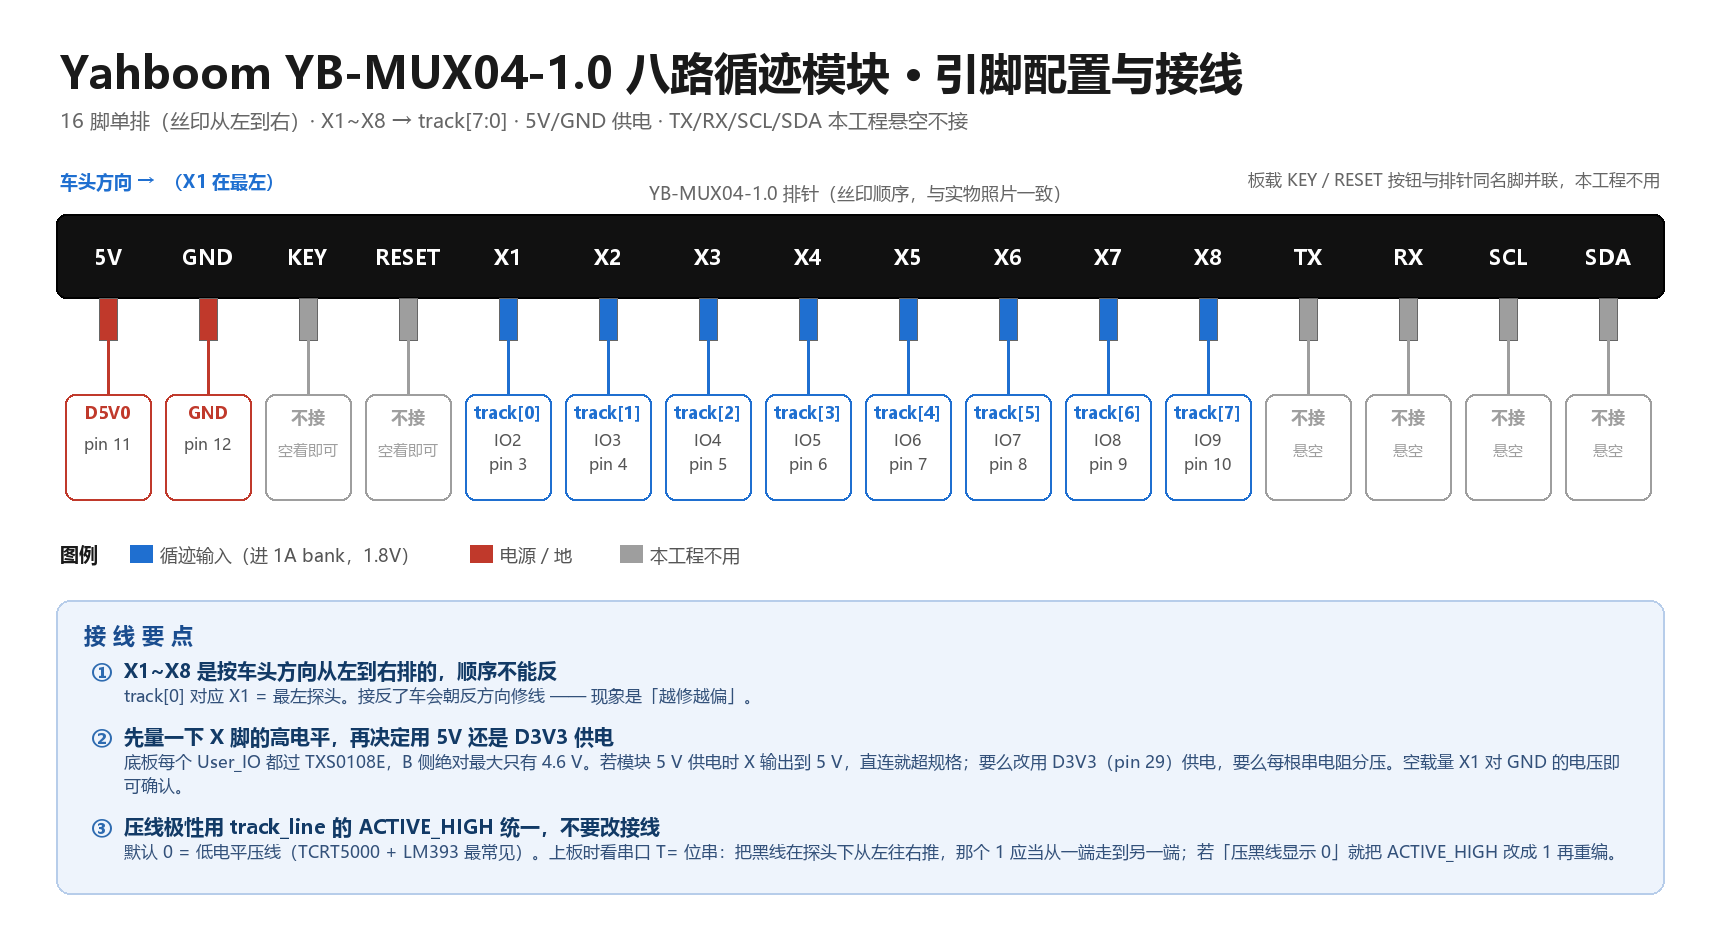
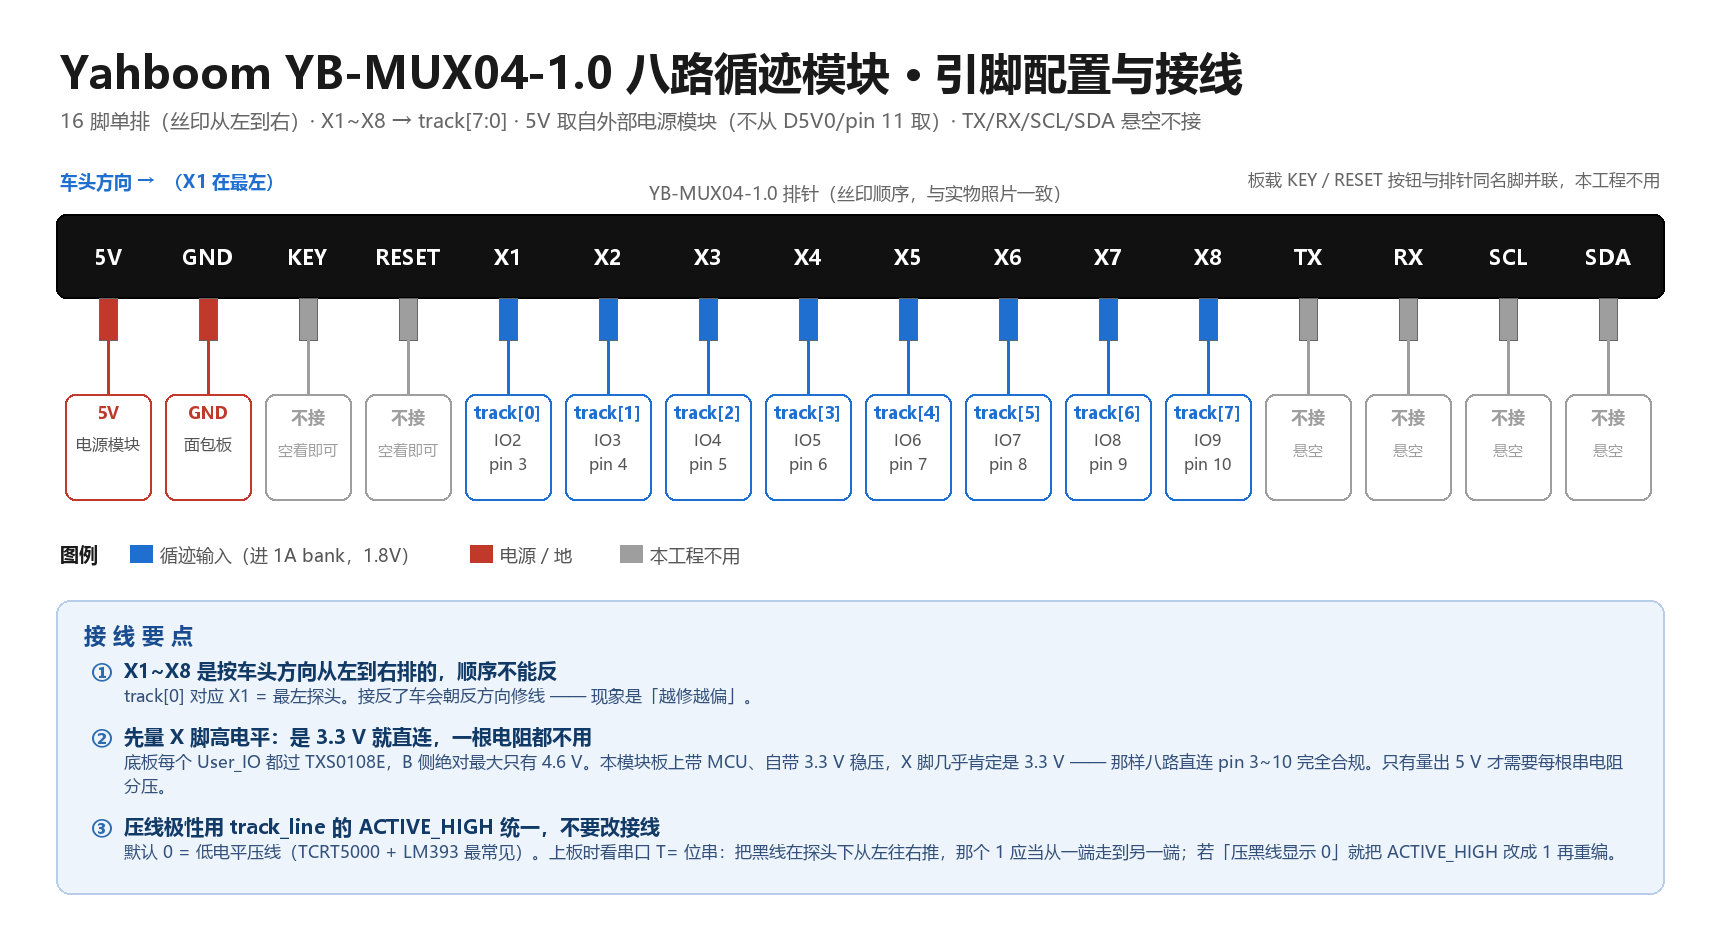
文档：订正 3.3V 直连后遗留的分压表述，循迹 5V 改标外部电源模块

diff --git a/tools/gen_wiring_diagrams.py b/tools/gen_wiring_diagrams.py
@@ -87,9 +87,9 @@ PANEL_X0, PANEL_X1 = MARGIN, W - MARGIN
 MUX_ITEMS = [
     ("①", "X1~X8 是按车头方向从左到右排的，顺序不能反",
      "track[0] 对应 X1 = 最左探头。接反了车会朝反方向修线 —— 现象是「越修越偏」。"),
-    ("②", "先量一下 X 脚的高电平，再决定用 5V 还是 D3V3 供电",
-     "底板每个 User_IO 都过 TXS0108E，B 侧绝对最大只有 4.6 V。若模块 5 V 供电时 X 输出到 5 V，"
-     "直连就超规格；要么改用 D3V3（pin 29）供电，要么每根串电阻分压。空载量 X1 对 GND 的电压即可确认。"),
+    ("②", "先量 X 脚高电平：是 3.3 V 就直连，一根电阻都不用",
+     "底板每个 User_IO 都过 TXS0108E，B 侧绝对最大只有 4.6 V。本模块板上带 MCU、自带 3.3 V 稳压，"
+     "X 脚几乎肯定是 3.3 V —— 那样八路直连 pin 3~10 完全合规。只有量出 5 V 才需要每根串电阻分压。"),
     ("③", "压线极性用 track_line 的 ACTIVE_HIGH 统一，不要改接线",
      "默认 0 = 低电平压线（TCRT5000 + LM393 最常见）。上板时看串口 T= 位串：把黑线在探头下从左往右推，"
      "那个 1 应当从一端走到另一端；若「压黑线显示 0」就把 ACTIVE_HIGH 改成 1 再重编。"),
@@ -108,7 +108,7 @@ d = ImageDraw.Draw(img)
 d.text((MARGIN + 4, 42), "Yahboom YB-MUX04-1.0 八路循迹模块 · 引脚配置与接线",
        font=F(44, True), fill=C_TITLE)
 d.text((MARGIN + 4, 106),
-       "16 脚单排（丝印从左到右）· X1~X8 → track[7:0] · 5V/GND 供电 · TX/RX/SCL/SDA 本工程悬空不接",
+       "16 脚单排（丝印从左到右）· X1~X8 → track[7:0] · 5V 取自外部电源模块（不从 D5V0/pin 11 取）· TX/RX/SCL/SDA 悬空不接",
        font=F(20), fill=C_SUB)
 
 BAR_Y0, BAR_Y1 = 214, 298
@@ -131,8 +131,8 @@ for i in range(8):
     net[4 + i] = "track[%d]" % i
     io[4 + i] = "IO%d" % (2 + i)
     pin[4 + i] = "pin %d" % (3 + i)
-net[0], pin[0] = "D5V0", "pin 11"
-net[1], pin[1] = "GND", "pin 12"
+net[0], pin[0] = "5V", "电源模块"
+net[1], pin[1] = "GND", "面包板"
 
 d.rounded_rectangle((MARGIN, BAR_Y0, W - MARGIN, BAR_Y1), radius=10,
                     fill="#111111", outline="#000000", width=2)

diff --git a/PROJECT_PLAN.md b/PROJECT_PLAN.md
@@ -100,7 +100,7 @@ FpgaCar/
 | clk | GPIOL_11 | TL corner / 3.3V | 24MHz 晶振，conn_type=pll_clkin（加 PLL 后告警消失） |
 | rst_n | GPIOT_P_11 (User_IO35) | 2B / 1.8V | 上拉 |
 | track[0..7] | GPIOL_N_06/P_06/N_08/P_08/N_05/P_05/N_04/P_04 (User_IO2–9) | 1A / 1.8V | YB-MUX04 八路 |
-| hc_trig / hc_echo | GPIOL_N_12 / P_12 (User_IO10/11) | 1B / 1.8V | HC-SR04。**Echo 5V 必须分压：1kΩ 串 + 2kΩ 下地 → 3.33V**（TXS0108E 的 B 侧绝对最大仅 4.6V，直连超规格）。详见 §3.21 与 [docs/模块接线说明.md](docs/模块接线说明.md) §3 |
+| hc_trig / hc_echo | GPIOL_N_12 / P_12 (User_IO10/11) | 1B / 1.8V | HC-SR04。**2026-11-18 起 Vcc 改 3.3 V 供电，Echo 随之为 3.3 V，pin 14 直连、不分压**（若改回 5 V 供电则必须 1kΩ 串 + 2kΩ 下地 → 3.33 V，TXS0108E 的 B 侧绝对最大仅 4.6 V）。详见 §3.21、§3.23 与 [docs/模块接线说明.md](docs/模块接线说明.md) §3 |
 | ir_l / ir_r | GPIOL_N_15 / P_15 (User_IO26/27) | 1B / 1.8V | E18-D80NK 红外光电开关 ×2（避障冗余；NPN 低有效=检测到）。**接法修正（联网查证）**：开集输出空闲时内部 10K 上拉为 **5V 高电平，不可直连 1.8V bank**——弃内部上拉，外部 10K 上拉到 D3V3 + 1K/1.2K 分压至约 1.8V。**2026-11-17：现阶段不用，`USE_IR = 1'b0` 不参与障碍判定**，接线与 RTL 保留，见 §3.9 A2 |
 | i2c_scl / i2c_sda | GPIOL_N_13 / P_13 (User_IO12/13) | 1B / 1.8V | scl=output、sda=inout |
 | enc_la/lb/ra/rb | GPIOL_N_10/P_10/N_11/P_11 (User_IO14–17) | 1B / 1.8V | 光电编码器 |
@@ -1218,8 +1218,8 @@ WARNING: Mapping into logic memory block 'u_oled/fb' (8192 bits) because read po
 
 判读速查：
 
-- **距离一直 `---`** → 无回波：模块没供电 / Trig 没接 / Echo 分压断 / 目标太远或太吸音。
-- **距离恒 `006cm` 之类偏小值** → 分压网络边沿失真把脉宽截短，或早前 5V 反接伤了模块。
+- **距离一直 `---`** → 无回波：模块没供电 / Trig 没接 / Echo 线松 / 目标太远或太吸音（3.3 V 供电下超 2 m 开始丢）。
+- **距离恒 `006cm` 之类偏小值** → Echo 线接触不良把脉宽截短、模块被 5 V 反接过、或目标太近落在盲区（<2 cm）。
 - **循迹条八格全实心** → 电位器拧到「全判黑」端，或车停深色地面；抬离桌面做对照。
 - **循迹条八格全空** → 模块没供电，或 ACTIVE_HIGH 极性与实物不符。
 - **状态号恒 0（IDLE）** → 还在上电 2 s 内，或 `rst_n` 没释放。
@@ -1876,25 +1876,27 @@ TT 电机额定多为 **3–6 V**，而 VM 是 7.4 V。50% 占空比平均 3.7 V
 
 ## 3.21 HC-SR04 接线定稿 + 编码器暂缓 + 剩余待买清单（2026-11-16）
 
-### HC-SR04：分压取值定稿
+### HC-SR04：3.3 V 直连定稿（2026-11-18 修订）
 
 实物照片已确认 4 脚自上而下是 `Vcc / Trig / Echo / Gnd`。逐脚对应与配图见
 [docs/模块接线说明.md](docs/模块接线说明.md) §3 与 [docs/HC-SR04接线图.png](docs/HC-SR04接线图.png)。
 
 | 脚 | 接往 | 关键点 |
 |---|---|---|
-| `Vcc` | **5 V**（车载 DC-DC 那一路） | 手册要求 5 V ±10%；接 D3V3 时量程掉到 1 m 以内 |
+| `Vcc` | **3.3 V**（外部电源模块的 3.3 V 输出） | 2026-11-18 实测：3.3 V 下 2.2 m 仍稳定回波，旧「量程掉到 1 m」结论作废 |
 | `Trig` | `hc_trig` = User_IO10 / G4 / pin 13 | 3.3 V 直驱够用，脉宽 15 µs（`TRIG_US`） |
-| `Echo` | **1 kΩ 串 + 2 kΩ 下地** → `hc_echo` = User_IO11 / G3 / pin 14 | 5 V × 2k/(1k+2k) = **3.33 V**；TXS0108E B 侧绝对最大 4.6 V，直连超规格 |
-| `Gnd` | GND · pin 12 / 30 | 与 Ti60 共地，功率地与信号地单点相接 |
+| `Echo` | **直连** → `hc_echo` = User_IO11 / G3 / pin 14 | 高电平 = `Vcc`，3.3 V 供电时即 3.3 V，直连合法；**改回 5 V 供电才需 1 kΩ 串 + 2 kΩ 下地**（5 V × 2k/(1k+2k) = 3.33 V，TXS0108E B 侧绝对最大 4.6 V） |
+| `Gnd` | **面包板 GND**，两根线回 Ti60 `pin 12` / `pin 30` | 功率地与信号地单点相接；面包板上下电源轨要桥接 |
 
-此前文档只写了「必须两个电阻分压」，没给具体阻值 —— 现在定死 `1 kΩ + 2 kΩ`：
-手上只有 2.2 kΩ 时输出 3.44 V 仍安全；**不要 1 kΩ+1 kΩ**（2.5 V 余量太小），
-**也不要 10 kΩ 级**（TXS0108E 靠边沿加速，驱动太弱会拖慢上升沿）。
-分压电阻放在**排针侧**：模块到电阻之间走 5 V，电阻到排针走 3.3 V，放反了会把 5 V 灌进电平转换器。
+现在**不需要任何分压电阻**。理由：Echo 由模块板上 MCU 在 `Vcc` 轨上推挽输出，`Vcc` 给 3.3 V，
+Echo 顶多 3.3 V，`pin 14` 直连不超 TXS0108E 的 4.6 V 绝对最大值。
 
-上板判据：串口 `D=` 随手远近变化即通；一直 `D=---cm` 按 ① 模块 Vcc ≥4.6 V → ② Trig 有 15 µs 脉冲
-→ ③ 分压节点 3.0–3.4 V → ④ 并 100 nF 的顺序查（详见模块接线说明 §3.3）。
+若将来改回 5 V 供电，分压取值仍是 `1 kΩ + 2 kΩ`：手上只有 2.2 kΩ 时输出 3.44 V 仍安全；
+**不要 1 kΩ+1 kΩ**（2.5 V 余量太小），**也不要 10 kΩ 级**（TXS0108E 靠边沿加速，驱动太弱会拖慢上升沿）。
+分压电阻必须放在**排针侧**：模块到电阻之间走 5 V，电阻到排针走 3.3 V，放反了等于把 5 V 灌进电平转换器。
+
+上板判据：串口 `D=` 随手远近变化即通；一直 `D=---cm` 按 ① 模块 Vcc 3.2–3.4 V → ② Trig 有 15 µs 脉冲
+→ ③ Echo 对 GND ≤3.4 V → ④ 并 100 nF 的顺序查（详见模块接线说明 §3.3）。
 
 ### 编码器：本轮不买，等实测再定
 
@@ -1921,7 +1923,7 @@ TT 电机额定多为 **3–6 V**，而 VM 是 7.4 V。50% 占空比平均 3.7 V
 | **必配** | DC-DC 降压 5 V / ≥3 A | 1 | 传感器 + K230 + FPGA 板 | 与电机功率地单点共地 |
 | **保留·暂不买** | E18-D80NK 红外 ×2 | 2 | 不卡任何一步 | User_IO26/27；开集空闲 5 V，须外部 10 kΩ 上拉 D3V3 + 1 kΩ/1.2 kΩ 分压到约 1.8 V（注意与超声的 1k/2k 不同）。**2026-11-17：现阶段不用，`USE_IR = 1'b0`；以后不说启用就不接** |
 | **暂缓** | 光电编码器 ×2 | 2 | 里程闭环（不是跑通的前置） | 本轮不买，见上 |
-| **辅料** | 1 kΩ / 2 kΩ / 10 kΩ / 1.2 kΩ 电阻 | 各 10 | 超声分压、红外上拉分压 | 1/4 W 金属膜，1% 更稳 |
+| **辅料** | 10 kΩ / 1 kΩ / 1.2 kΩ 电阻 | 各 10 | E18-D80NK 上拉与分压（红外暂不启用，可顺手买） | 1/4 W 金属膜，1% 更稳。**HC-SR04 已改 3.3 V 直连，2 kΩ 不再是必需件** |
 | **辅料** | 杜邦线、2.54 排针、热缩管、XT30/XT60 接头 | 若干 | 整车接线 | 杜邦线建议公母各一包 |
 | **辅料** | 保险丝座 + 5 A 保险丝、船型开关 | 各 1 | 电池安全 | 2S 锂电短路电流很大，**建议加**（不是硬性） |
 | 可选 | 广角镜头、VL53L1X | — | 视野/近距补充 | 不影响主线 |
@@ -2144,7 +2146,7 @@ tools\flash.bat       # 固化进 SPI Flash（三步：bridge → 写入 → 回
 `sign_detect.v` 不必再做；`dvp_capture.v` / `color_detect.v` 保留，定位降为 OV5640 后视倒车（看库位线）。
 
 **省不掉的硬边界**（别试图在片内实现）：传感器本体（红外收发管、CMOS+镜头、超声波换能器及模拟前端）、
-H 桥 MOSFET / 电机 / 电池 DC-DC、5 V→3.3 V 分压（HC-SR04 Echo、E18-D80NK）、上拉/去耦/晶振、
+H 桥 MOSFET / 电机 / 电池 DC-DC、5 V→3.3 V 分压（E18-D80NK；HC-SR04 已改 3.3 V 供电不再需要）、上拉/去耦/晶振、
 屏体本身（SSD1306 在屏内）。**Ti60 没有片内 ADC**，所以模拟输出传感器（如 GP2Y0A21）不要用。
 
 **合规提醒**：编码器必须**光电式**（细则 3.2.2 禁非光电方式导航识别）；严禁任何无线/遥控模块
@@ -2165,7 +2167,7 @@ H 桥 MOSFET / 电机 / 电池 DC-DC、5 V→3.3 V 分压（HC-SR04 Echo、E18-D
 - **暂缓（2026-11-16 决定）**：光电编码器 ×2 —— **本轮不采购，等无编码器版本实测后再决定要不要买**。
   理由与降级调试路径见 §3.21；RTL（`encoder_dec.v` / `speed_meter.v`）与 User_IO14–17 的管脚锁定都保留，
   将来装上直接可用。买的话必须**光电式**（3.2.2 禁磁/霍尔）。
-- **辅料**：1kΩ / 2kΩ / 10kΩ / 1.2kΩ 电阻各 10（HC-SR04 Echo 分压、E18-D80NK 上拉分压）、
+- **辅料**：10kΩ / 1kΩ / 1.2kΩ 电阻各 10（E18-D80NK 上拉分压；**2kΩ 只是「若把 HC-SR04 改回 5 V」的备用件**）、
   杜邦线公母各一包、2.54 排针、热缩管、XT30/XT60 电源接头；**建议**加 5 A 保险丝座 + 船型开关。
 - 可选：广角镜头（一个摄像头兼顾前方标识牌与侧方 25cm 色块）、VL53L1X（复用 I2C）。
 - 接口 Excel 中的两张示意图（框图/引脚图）按用户要求已删除，引脚信息以 §3.5 表格与 xlsx 总表为准。

diff --git a/docs/模块接线说明.md b/docs/模块接线说明.md
@@ -103,7 +103,7 @@ TT 电机额定多为 **3–6 V**，而 VM 是 7.4 V。50 % 占空比平均 3.7 
 | # | 丝印 | 本工程接到 | 针号 | User_IO / BGA |
 |---:|---|---|---|---|
 | 1 | `5V` | **外部电源模块 5 V**（★ 不从 `D5V0` / pin 11 取） | — | — |
-| 2 | `GND` | `GND` | pin 12 / 30 | — |
+| 2 | `GND` | **面包板 GND**（与 Ti60 的 `pin 12` / `pin 30` 共地） | — | — |
 | 3 | `KEY` | **不接** | — | 板载按钮，与排针同名脚并联 |
 | 4 | `RESET` | **不接** | — | 同上 |
 | 5 | `X1` | `track[0]` | pin 3 | User_IO2 / K2 GPIOL_N_06 |
@@ -125,7 +125,7 @@ TT 电机额定多为 **3–6 V**，而 VM 是 7.4 V。50 % 占空比平均 3.7 
 
 **① X1~X8 的顺序不能反。** `track[0]` 对应 X1 = 车体最左探头。接反了车会朝反方向修线，现象是「越修越偏」，而且 PID 参数怎么调都没用。
 
-**② 先量 X 脚的高电平，再决定供电。** 底板每个 User_IO 都过 TXS0108E，**B 侧绝对最大只有 4.6 V**。若模块用 5 V 供电时 X 输出到 5 V，直连就超规格；要么改用 `D3V3`（pin 29）供电，要么每根串电阻分压。空载量 X1 对 GND 的电压就能确认，不用猜。
+**② 先量 X 脚的高电平，再决定要不要加电阻。** 底板每个 User_IO 都过 TXS0108E，**B 侧绝对最大只有 4.6 V**。本模块板上带 MCU、几乎肯定自带 3.3 V 稳压，X 脚输出应为 3.3 V —— 若量出来是 3.3 V（而不是 5 V），**八路直连 pin 3~10 完全合规、一根电阻都不用**。这也是「要不要买电阻」这件事的唯一判据：**量电压，不用猜**。（2026-11-18 更新：此前建议的「每根串电阻分压」只在量为 5 V 时才需要。）
 
 **③ 压线极性用 `track_line` 的 `ACTIVE_HIGH` 参数统一，不要改接线。**
 
